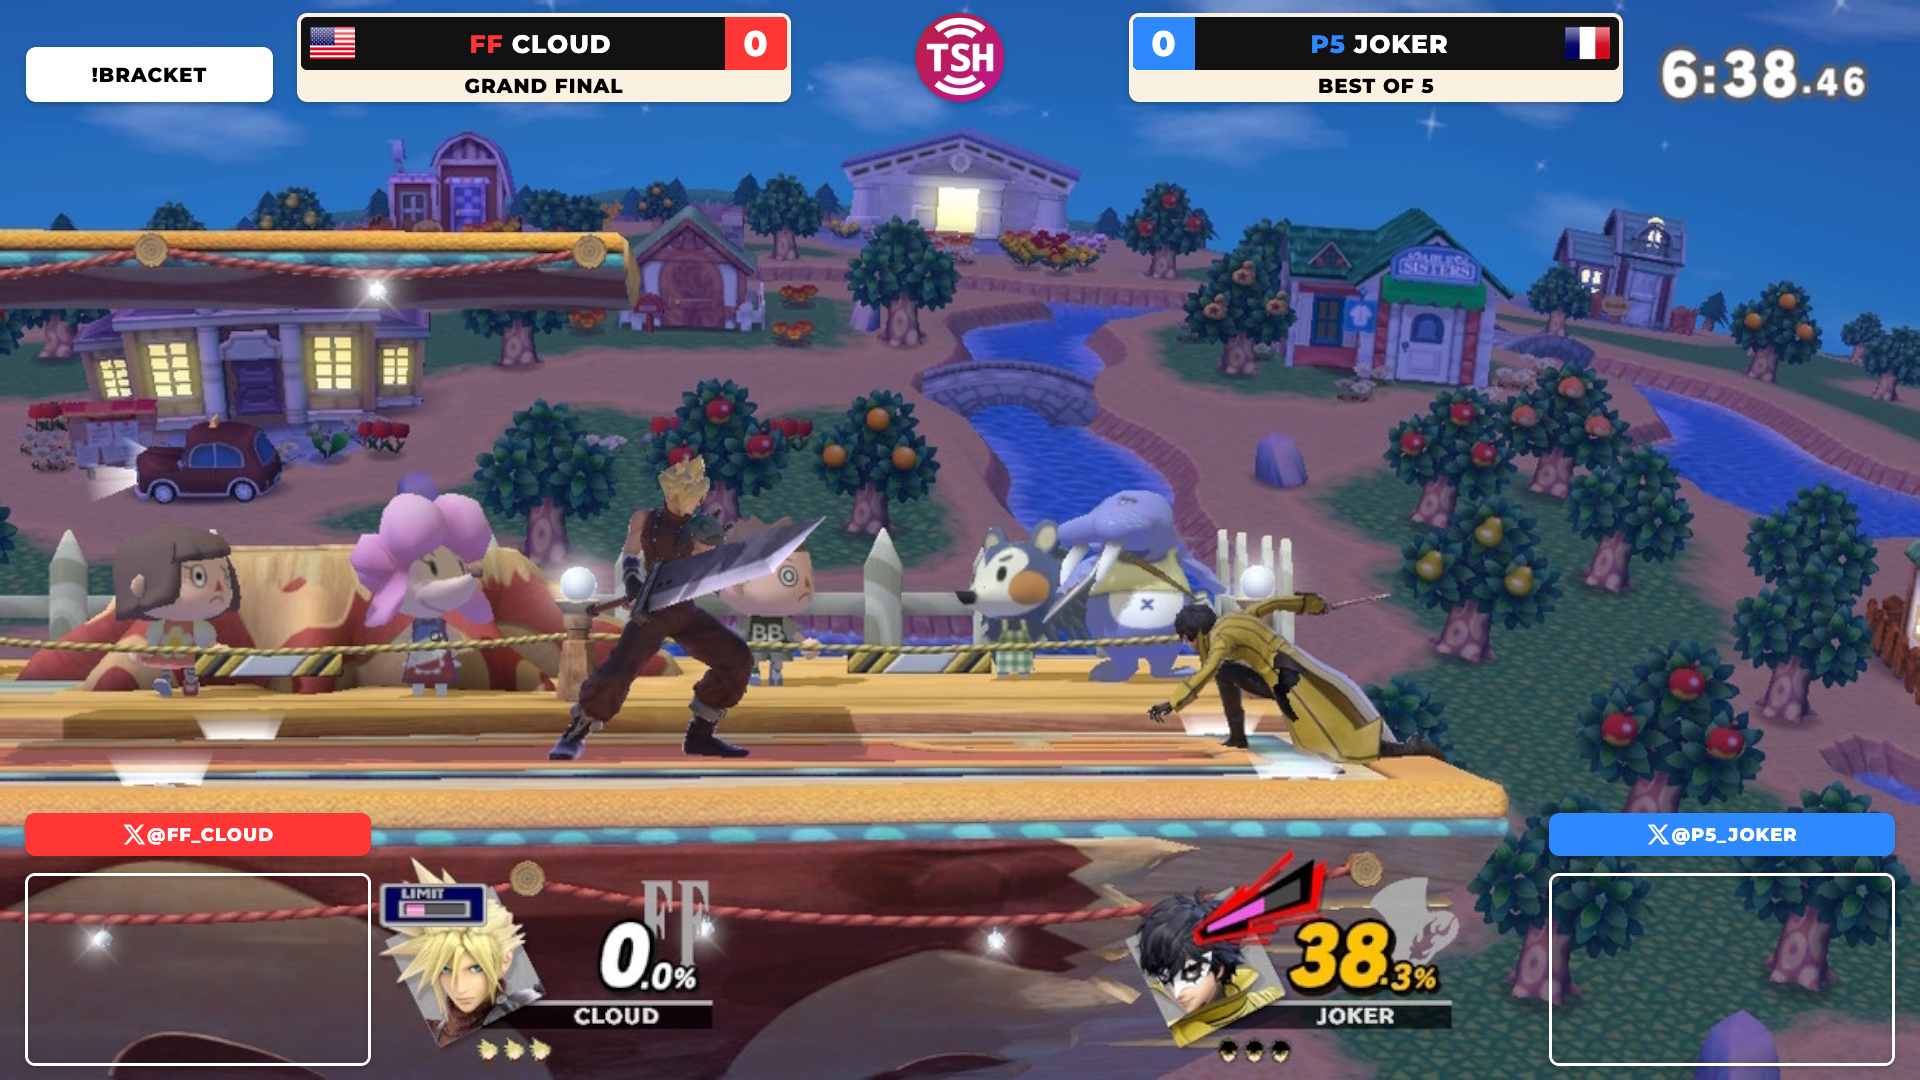
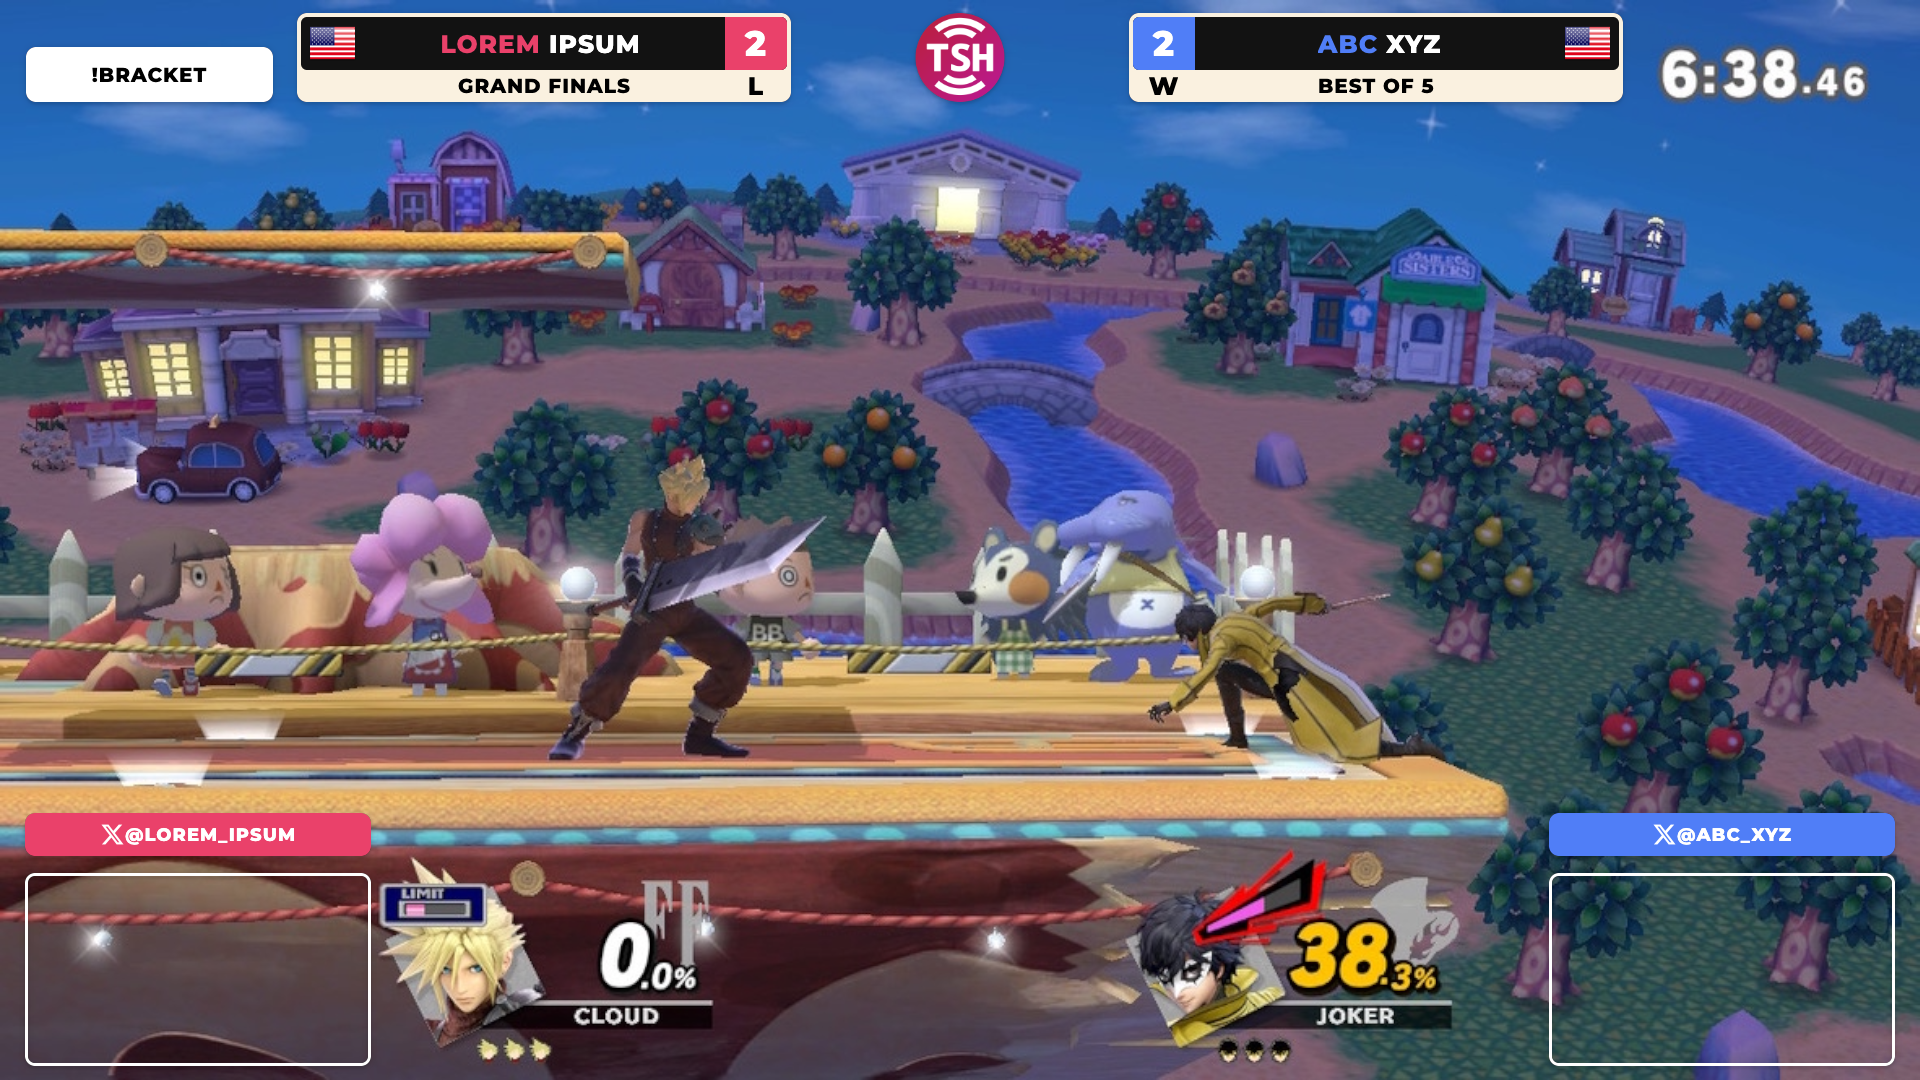
Added WL logic

diff --git a/index.js b/index.js
@@ -1,5 +1,5 @@
 // How long it takes to update the information, in milliseconds. 10000 milliseconds = 10 seconds.
-const ROTATION_INTERVAL = 10000;
+const ROTATION_INTERVAL = 5000;
 
 const overlayState = {
   matchModeIndex: 0,
@@ -215,11 +215,11 @@ function getMatchDisplayContent(score) {
   return { content: selectedContent, modeUsed: selectedMode };
 }
 
-const setName = async (selector, team, name, suffix = "") => {
+const setName = async (selector, team, name) => {
   SetInnerHtml($(selector), `
     <span>
       <span class="sponsor">${team ? team.replace(/\s*[\|\/\\]\s*/g, ' ') : ""}</span>
-      ${name ? await Transcript(name) : ""} ${suffix}
+      ${name ? await Transcript(name) : ""}
     </span>
   `);
 };
@@ -388,57 +388,56 @@ window.resetIntervals = () => {
   overlayState.intervalID = setInterval(rotate, ROTATION_INTERVAL);
 };
 
-  const DisplayEntityName = async (t, nameOrPlayer, isTeam = false) => {
-    const selector = `.p${t + 1}.container .name`;
-    const bothLosers = overlayState.bothLosers;
-    const neitherLoser = overlayState.neitherLoser;
+const DisplayEntityName = async (t, nameOrPlayer, isTeam = false) => {
+  const selector = `.p${t + 1}.container .name`;
+  const bothLosers = overlayState.bothLosers;
+  const neitherLoser = overlayState.neitherLoser;
+
+  if (isTeam) {
+    const teamName = nameOrPlayer;
   
-    if (isTeam) {
-      if (isTeam) {
-        const teamName = nameOrPlayer;
-      
-        const normalizeTeamName = (name) =>
-          name?.toLowerCase().replace(/\s*[\|\/\\]\s*/g, ' ').trim();
-      
-        const storedRaw = localStorage.getItem("teamNameInWinners") || "";
-        const teamNameInWinners = normalizeTeamName(storedRaw);
-        const normalizedCurrentName = normalizeTeamName(teamName);
-      
-        console.log("Comparing team names:", {
-          storedRaw,
-          displayedRaw: teamName,
-          storedNormalized: teamNameInWinners,
-          displayedNormalized: normalizedCurrentName,
-        });
-      
-        const getSuffix = (normalizedCurrent, losers) => {
-          if (bothLosers) {
-            return teamNameInWinners === normalizedCurrent ? "(WL)" : "(L)";
-          } else if (neitherLoser) {
-            return "";
-          } else {
-            return losers ? "(L)" : "(W)";
-          }
-        };
-      
-        const suffix = getSuffix(normalizedCurrentName, t === 0 ? overlayState.team1Losers : overlayState.team2Losers);
-        SetInnerHtml($(selector), `<span>${teamName} ${suffix}</span>`);
+    const normalizeTeamName = (name) =>
+      name?.toLowerCase().replace(/\s*[\|\/\\]\s*/g, ' ').trim();
+  
+    const storedRaw = localStorage.getItem("teamNameInWinners") || "";
+    const teamNameInWinners = normalizeTeamName(storedRaw);
+    const normalizedCurrentName = normalizeTeamName(teamName);
+  
+    console.log("Comparing team names:", {
+      storedRaw,
+      displayedRaw: teamName,
+      storedNormalized: teamNameInWinners,
+      displayedNormalized: normalizedCurrentName,
+    });
+  
+    const getSuffix = (normalizedCurrent, losers) => {
+      if (bothLosers) {
+        return teamNameInWinners === normalizedCurrent ? "WL" : "L";
+      } else if (neitherLoser) {
+        return "";
+      } else {
+        return losers ? "L" : "W";
       }
-      
-    } else {
-      const player = nameOrPlayer;
-      const playerInWinners = JSON.parse(localStorage.getItem("playerInWinners") || "{}");
-  
-      const getSuffix = (p, losers) => {
-        if (bothLosers) {
-          return playerInWinners.name?.toLowerCase() === p.name?.toLowerCase() ? "(WL)" : "(L)";
-        } else if (neitherLoser) {
-          return "";
-        } else {
-          return losers ? "(L)" : "(W)";
-        }
-      };
-  
-      await setName(selector, player.team, player.name, getSuffix(player, t === 0 ? overlayState.team1Losers : overlayState.team2Losers));
-    }
-  };
+    };
+    const suffix = getSuffix(normalizedCurrentName, t === 0 ? overlayState.team1Losers : overlayState.team2Losers);
+    SetInnerHtml($(selector), `<span>${teamName}</span>`);
+    SetInnerHtml($(`.p${t + 1} .losers`), suffix);
+  } else {
+    const player = nameOrPlayer;
+    const playerInWinners = JSON.parse(localStorage.getItem("playerInWinners") || "{}");
+
+    const getSuffix = (p, losers) => {
+      if (bothLosers) {
+        return playerInWinners.name?.toLowerCase() === p.name?.toLowerCase() ? "WL" : "L";
+      } else if (neitherLoser) {
+        return "";
+      } else {
+        return losers ? "L" : "W";
+      }
+    };
+
+    await setName(selector, player.team, player.name);
+
+    SetInnerHtml($(`.p${t + 1} .losers`), getSuffix(player, t === 0 ? overlayState.team1Losers : overlayState.team2Losers));
+  }
+};

diff --git a/index.html b/index.html
@@ -18,41 +18,49 @@
       <div class="match"></div>
     </div>
 
-    <div class="p1 container">
-      <div class="bottom_container">
-        <div class="phase bottom"></div>
-        <div class="losers_container"></div>
-      </div>
-      <div class="inner_container">
-        <div class="score_container">
-          <div class="score"></div>
+    <div class="anim_container_outer">
+      <div class="anim_container_inner">
+        <div class="p1 container">
+          <div class="bottom_container">
+            <div class="phase bottom"></div>
+            <div class="losers_container">
+              <div class="losers"></div>
+            </div>
+          </div>
+          <div class="inner_container">
+            <div class="score_container">
+              <div class="score"></div>
+            </div>
+            <div class="name_container">
+              <div class="name"></div>
+            </div>
+            <div class="flags_container">
+              <div class="flagcountry"></div>
+            </div>
+            <div class="sponsor_container"></div>
+          </div>
         </div>
-        <div class="name_container">
-          <div class="name"></div>
+    
+        <div class="p2 container">
+          <div class="bottom_container">
+            <div class="best_of bottom"></div>
+            <div class="losers_container">
+              <div class="losers"></div>
+            </div>
+          </div>
+          <div class="inner_container">
+            <div class="score_container">
+              <div class="score"></div>
+            </div>
+            <div class="name_container">
+              <div class="name"></div>
+            </div>
+            <div class="flags_container">
+              <div class="flagcountry"></div>
+            </div>
+            <div class="sponsor_container"></div>
+          </div>
         </div>
-        <div class="flags_container">
-          <div class="flagcountry"></div>
-        </div>
-        <div class="sponsor_container"></div>
-      </div>
-    </div>
-
-    <div class="p2 container">
-      <div class="bottom_container">
-        <div class="best_of bottom"></div>
-        <div class="losers_container"></div>
-      </div>
-      <div class="inner_container">
-        <div class="score_container">
-          <div class="score"></div>
-        </div>
-        <div class="name_container">
-          <div class="name"></div>
-        </div>
-        <div class="flags_container">
-          <div class="flagcountry"></div>
-        </div>
-        <div class="sponsor_container"></div>
       </div>
     </div>
 

diff --git a/index.css b/index.css
@@ -13,6 +13,24 @@ body {
   letter-spacing: 1;
 }
 
+.anim_container_outer {
+  position: absolute;
+  overflow: hidden;
+  left: 50%;
+  transform: translateX(-50%);
+  width: 1326px;
+  height: 1080px;
+}
+
+.anim_container_inner {
+  position: absolute;
+  overflow: hidden;
+  left: 50%;
+  transform: translateX(-50%);
+  width: 1920px;
+  height: 1080px;
+}
+
 .logo {
   position: absolute;
   top: 13px;
@@ -175,6 +193,11 @@ body {
 
 .p2 .losers_container {
   left: 0px;
+}
+
+.losers {
+  font-size: 25px;
+  color: black;
 }
 
 .match {
